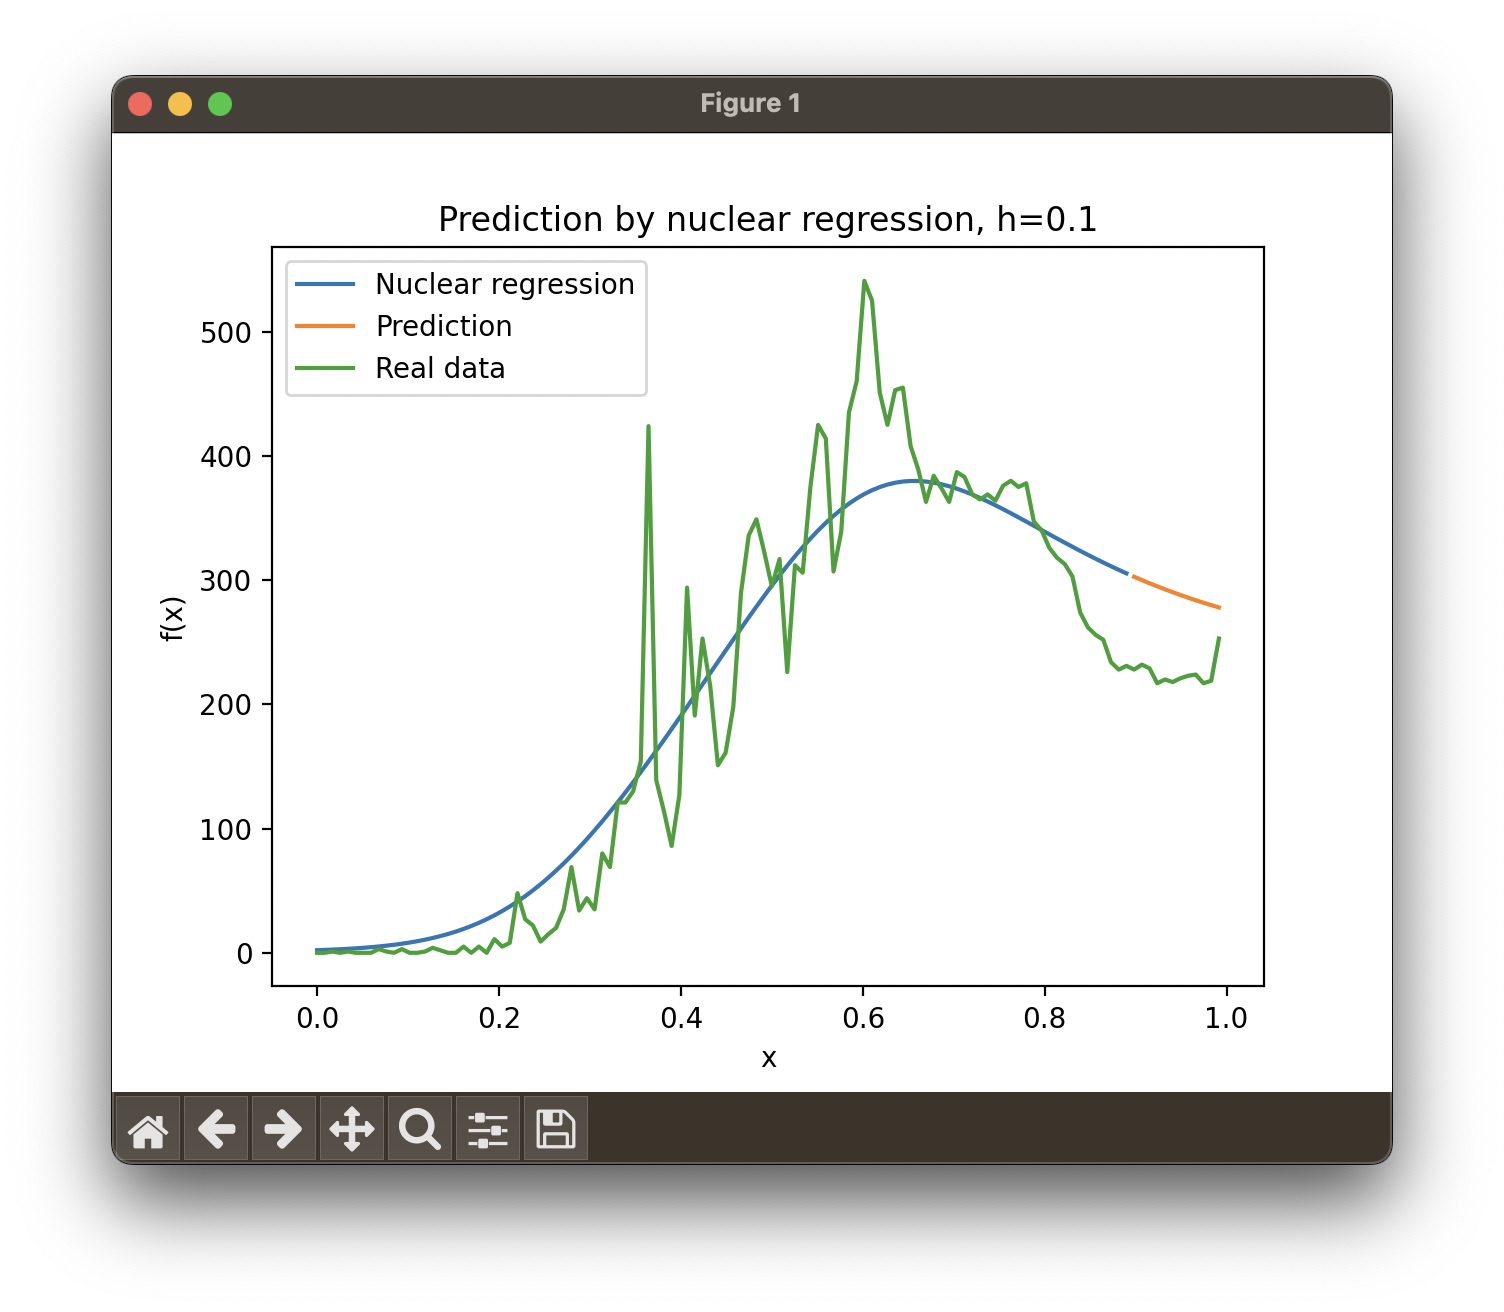
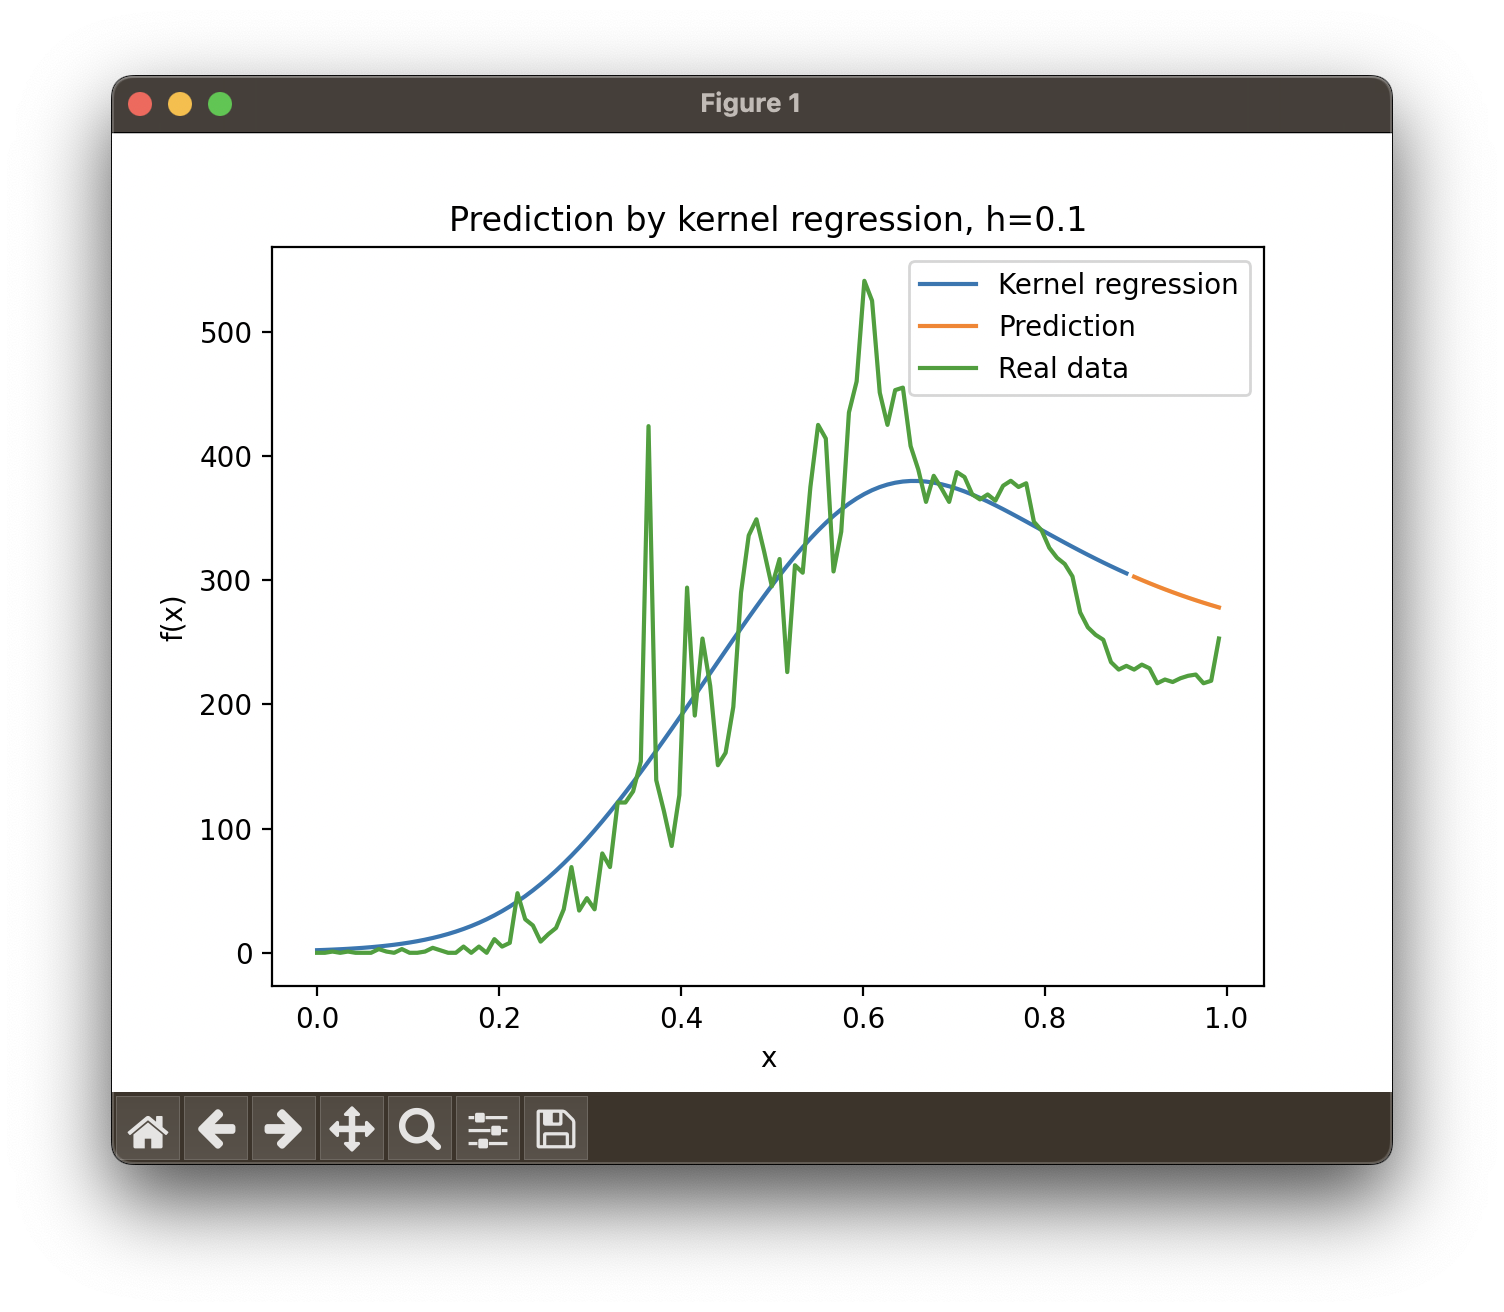
Little update

Changed region(s): [[0.1875, 0.1562, 0.8438, 0.3125]]

diff --git a/main.py b/main.py
@@ -32,7 +32,7 @@ bins_count = 10
 
 # Returns core value
 @lru_cache()
-def nuclear(r, type_val=core_type):
+def core(r, type_val=core_type):
     if type_val == 1:
         return 3/4 * (1 - r ** 2)
     elif type_val == 2:
@@ -53,12 +53,12 @@ def distance(x1, x2):
     return np.abs(x1 - x2)
 
 
-# The value of the nuclear regression at point xi
+# The value of the kernel regression at point xi
 def regression_result(xi, x_arr=x, y_arr=y, gamma_arr=np.ones(len(x))):
     upper_part = 0
     lower_part = 0
     for i in range(len(x_arr)):
-        k_val = nuclear(distance(xi, x_arr[i]) / h, core_type)
+        k_val = core(distance(xi, x_arr[i]) / h, core_type)
         upper_part += y_arr[i] * gamma_arr[i] * k_val
         lower_part += gamma_arr[i] * k_val
     return upper_part / lower_part
@@ -80,7 +80,7 @@ def main():
     x_nuclear = x_nuclear / len(x_nuclear)
     y_nuclear = []
     for x_cur in x_nuclear:
-        y_nuclear.append(nuclear(x_cur))
+        y_nuclear.append(core(x_cur))
     plt.plot(x_nuclear, y_nuclear)
     plt.title('Core')
     plt.xlabel('r')
@@ -92,7 +92,7 @@ def main():
     for xi in x:
         sum_i = 0
         for xj in x:
-            sum_i += nuclear((xi - xj) / h)
+            sum_i += core((xi - xj) / h)
         sum_i /= len(x) * h
         prob.append(sum_i)
     plt.hist(x, bins=bins_count, edgecolor='black', label='Data histogram')
@@ -103,19 +103,19 @@ def main():
     plt.legend()
     plt.show()
 
-    # Building a plot describing the nuclear regression
+    # Building a plot describing the kernel regression
     y_fact = []
     for i in range(len(x)):
         y_fact.append(regression_result(x[i]))
-    plt.plot(x, y_fact, label='Nuclear regression')
+    plt.plot(x, y_fact, label='Kernel regression')
     plt.plot(x, y, label='Real data')
-    plt.title(f'Nuclear regression, h={h}')
+    plt.title(f'Kernel regression, h={h}')
     plt.xlabel('x')
     plt.ylabel('f(x)')
     plt.legend()
     plt.show()
 
-    # Building a plot describing the weighted nuclear regression
+    # Building a plot describing the weighted kernel regression
     last_diff = 1000000
     gamma = np.ones(len(x))
     while True:
@@ -131,10 +131,10 @@ def main():
         last_diff = diff
         # We calculate new values of gamma coefficients
         for i in range(len(y_fact)):
-            gamma[i] = nuclear(np.abs(y_fact[i] - y[i]), gamma_core_type)
-    plt.plot(x, y_fact, label='Nuclear regression')
+            gamma[i] = core(np.abs(y_fact[i] - y[i]), gamma_core_type)
+    plt.plot(x, y_fact, label='Kernel regression')
     plt.plot(x, y, label='Real data')
-    plt.title(f'Weighted nuclear regression, h={h}')
+    plt.title(f'Weighted kernel regression, h={h}')
     plt.xlabel('x')
     plt.ylabel('f(x)')
     plt.legend()
@@ -144,19 +144,19 @@ def main():
     x_train = x[:int(predict * len(x))]
     y_train = y[:int(predict * len(y))]
     y_fact = []
-    # We calculate the values of nuclear regression in the training range
+    # We calculate the values of kernel regression in the training range
     for xi in x_train:
         y_fact.append(regression_result(xi, x_arr=x_train, y_arr=y_train))
     x_test = x[int(predict * len(x)):]
     y_test = []
     # We calculate the prediction on the test range
-    # using a nuclear regression built on the training range
+    # using a kernel regression built on the training range
     for xi in x_test:
         y_test.append(regression_result(xi, x_arr=x_train, y_arr=y_train))
-    plt.plot(x_train, y_fact, label='Nuclear regression')
+    plt.plot(x_train, y_fact, label='Kernel regression')
     plt.plot(x_test, y_test, label='Prediction')
     plt.plot(x, y, label='Real data')
-    plt.title(f'Prediction by nuclear regression, h={h}')
+    plt.title(f'Prediction by kernel regression, h={h}')
     plt.xlabel('x')
     plt.ylabel('f(x)')
     plt.legend()
